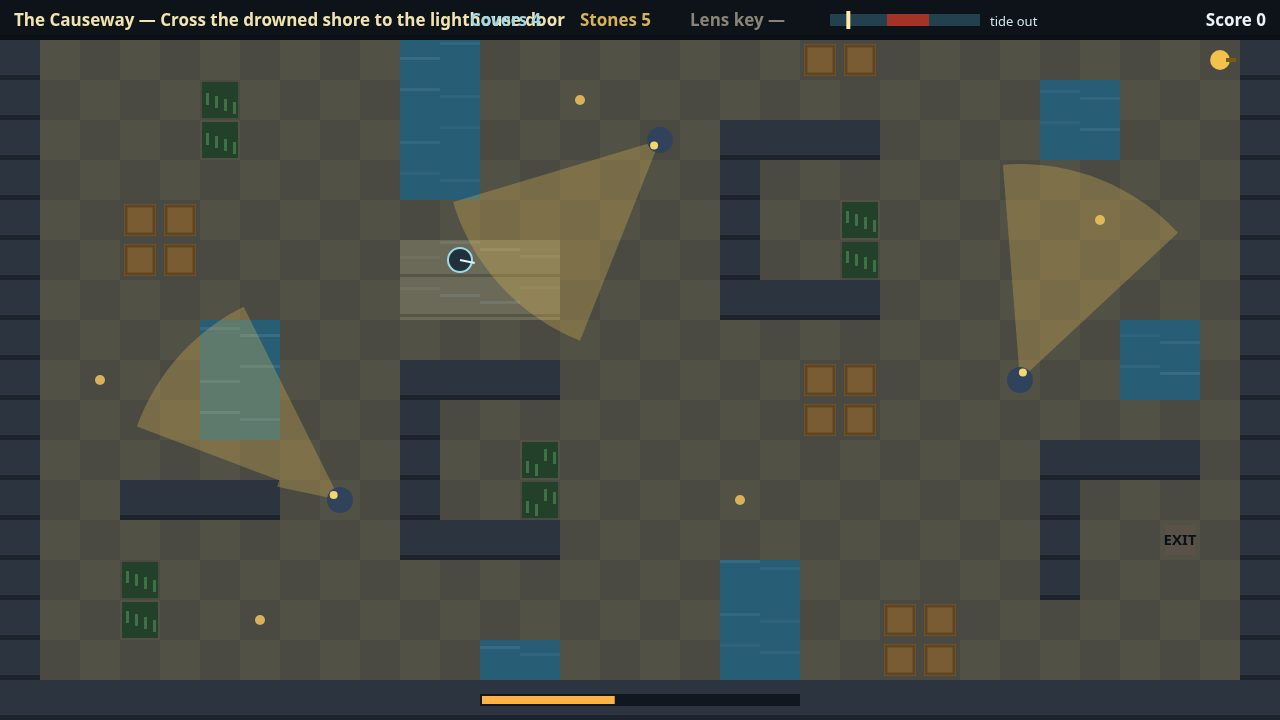
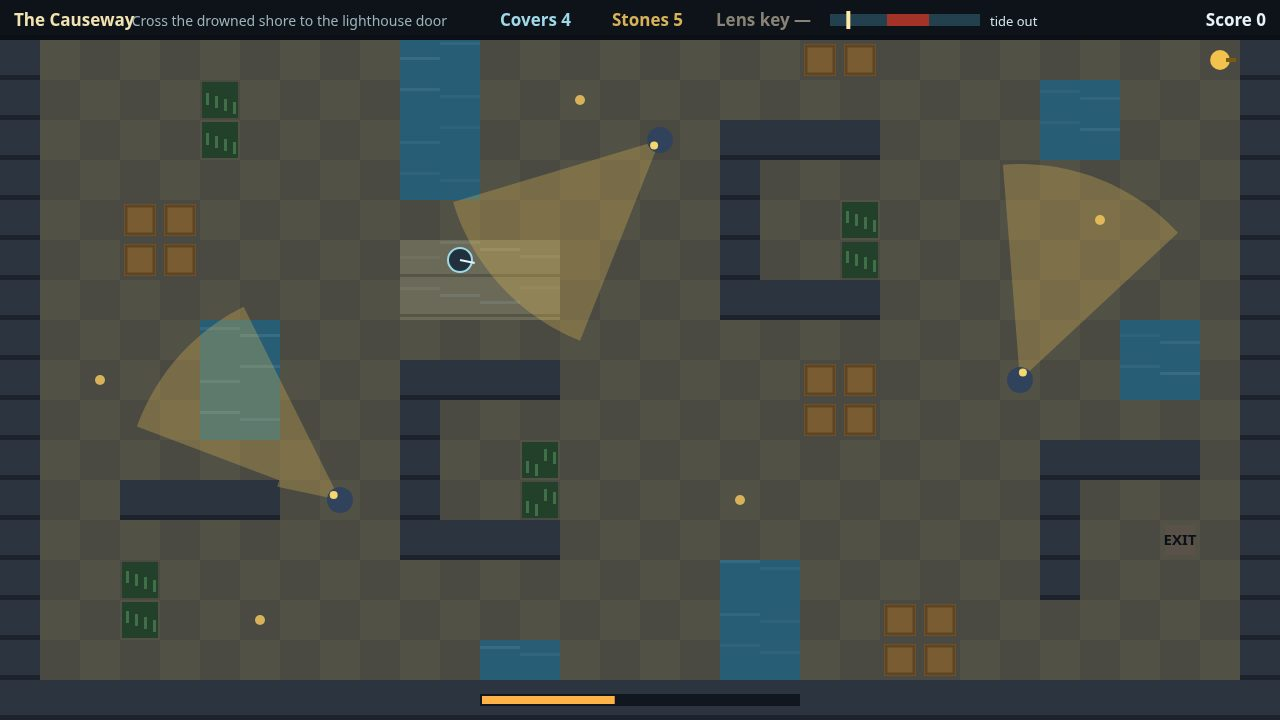
Revision: fix HUD crowding, causeway flood-warning shimmer, drop dead import

Changed region(s): [[0.0938, 0.0, 0.625, 0.0611]]

diff --git a/game/src/render.js b/game/src/render.js
@@ -66,6 +66,14 @@ export function draw(ctx, w, opts = {}) {
       if (ch === '=' && !submerged) {
         ctx.fillStyle = 'rgba(20,26,20,0.25)';
         ctx.fillRect(px, py + TILE - 6, TILE, 3);
+        // the causeway frets white as the flood approaches, so a
+        // runner mid-crossing can read how long the way stays open
+        const phase = tidePhaseAt(w.time);
+        if (phase > 0.26 && phase < 0.38) {
+          const pulse = 0.35 + 0.3 * Math.sin(w.time * 7 + x);
+          ctx.fillStyle = `rgba(235,250,255,${pulse})`;
+          ctx.fillRect(px, py + 3, TILE, 3);
+        }
       }
     } else {
       ctx.fillStyle = (x + y) % 2 ? PALETTE.floor : PALETTE.floorAlt;
@@ -201,19 +209,24 @@ function drawHud(ctx, w) {
   ctx.fillStyle = '#f2e3b3';
   ctx.font = 'bold 17px system-ui';
   ctx.textAlign = 'left';
-  ctx.fillText(`${w.level.name} — ${w.level.sub}`, 14, 26);
+  ctx.fillText(w.level.name, 14, 26);
+  ctx.fillStyle = '#9db4bd';
+  ctx.font = '14px system-ui';
+  ctx.fillText(w.level.sub, 14 + ctx.measureText(w.level.name).width + 24, 26);
+  ctx.font = 'bold 17px system-ui';
   ctx.textAlign = 'right';
   ctx.fillStyle = '#e8f4f8';
   ctx.fillText(`Score ${w.score}`, VIEW_W - 14, 26);
 
-  // covers (spare oilskins), stones, key
+  // covers (spare oilskins), stones, key — set right of centre so a
+  // long floor name can never run into them
   ctx.textAlign = 'left';
   ctx.fillStyle = '#9fd8e8';
-  ctx.fillText(`Covers ${Math.max(0, w.covers + 1)}`, 470, 26);
+  ctx.fillText(`Covers ${Math.max(0, w.covers + 1)}`, 500, 26);
   ctx.fillStyle = '#d8b25a';
-  ctx.fillText(`Stones ${w.stones}`, 580, 26);
+  ctx.fillText(`Stones ${w.stones}`, 612, 26);
   ctx.fillStyle = w.key.taken ? '#39d353' : '#8a8378';
-  ctx.fillText(w.key.taken ? 'Lens key ✓' : 'Lens key —', 690, 26);
+  ctx.fillText(w.key.taken ? 'Lens key ✓' : 'Lens key —', 716, 26);
 
   // tide gauge: a phase bar; the red stretch is high water
   const tx = 830, tw = 150;

diff --git a/game/src/main.js b/game/src/main.js
@@ -3,7 +3,6 @@
 // page instead freezes one deterministic scene for screenshots.
 
 import { createWorld, stepWorld, retryLevel, EVENT_CAUGHT, EVENT_LEVEL_CLEAR, EVENT_GAME_CLEAR, EVENT_GAME_OVER } from './world.js';
-import { LEVELS } from './levels.js';
 import { draw } from './render.js';
 import { createInput } from './input.js';
 import { createAudio } from './audio.js';
